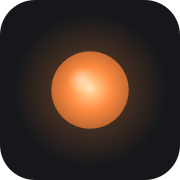
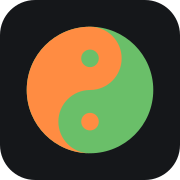
fix: yin-yang correct (paths canoniques) + icône Home Screen yin-yang
L'icône PWA passe de la braise ambre unique au yin-yang ambre+vert, signe
que l'app gère les deux modes (cigarette / pastille) dès l'écran d'accueil.

Les paths SVG précédents (2 paths complémentaires avec sweep-flags
contre-intuitifs) laissaient un trou dans le bas du cercle parce que je
gérais mal les flags. Corrigé en passant à l'approche canonique Wikipedia :
un cercle plein (couleur "bulb du bas") + un path par-dessus (couleur
"bulb du haut") qui forme correctement la courbe en S. Robuste et lisible.

Appliqué à 3 endroits :
- icon.svg (+ régénération icon-192.png, icon-512.png, apple-touch-icon.png
  via rsvg-convert)
- index.html splash (ember-logo-yinyang)
- index.html écran auth

Manifest mis à jour : "tracker nicotine" au lieu de "tracker de cigarettes"
+ description qui mentionne les deux modes.

Note iOS : Safari cache aggressivement les icônes Home Screen. Pour voir
la nouvelle, il faut retirer l'ancienne icône puis ré-ajouter via "Add to
Home Screen".

diff --git a/index.html b/index.html
@@ -52,16 +52,20 @@
           <circle cx="232" cy="228" r="40" fill="url(#splash-hilight)"/>
         </g>
 
-        <!-- État initial : yin-yang classique (ambre + vert tilleul) -->
+        <!-- État initial : yin-yang classique (ambre bulb haut, vert bulb bas).
+             Approche cercle plein + path par-dessus (canonique Wikipedia), beaucoup
+             plus robuste que 2 paths séparés où les sweep-flags sont contre-intuitifs.
+             Centre (256, 256), grand R=220, petits r=110. -->
         <g class="ember-logo-yinyang">
-          <path class="yy-yin"
-                d="M 256,36 A 220,220 0 0,0 256,476 A 110,110 0 0,1 256,256 A 110,110 0 0,0 256,36 Z"
+          <circle class="yy-base" cx="256" cy="256" r="220" fill="var(--pastille-color)"/>
+          <path class="yy-overlay"
+                d="M 256,36
+                   A 110,110 0 0,1 256,256
+                   A 110,110 0 0,0 256,476
+                   A 220,220 0 0,1 256,36 Z"
                 fill="var(--cigarette-color)"/>
-          <path class="yy-yang"
-                d="M 256,36 A 220,220 0 0,1 256,476 A 110,110 0 0,0 256,256 A 110,110 0 0,1 256,36 Z"
-                fill="var(--pastille-color)"/>
-          <circle class="yy-eye-top" cx="256" cy="146" r="22" fill="var(--pastille-color)"/>
-          <circle class="yy-eye-bottom" cx="256" cy="366" r="22" fill="var(--cigarette-color)"/>
+          <circle class="yy-eye-top" cx="256" cy="146" r="28" fill="var(--pastille-color)"/>
+          <circle class="yy-eye-bottom" cx="256" cy="366" r="28" fill="var(--cigarette-color)"/>
         </g>
       </svg>
       <p class="loading-text">Ember</p>
@@ -73,12 +77,14 @@
   <section id="screen-auth" class="screen">
     <div class="auth-wrap">
       <svg class="ember-logo" viewBox="0 0 512 512" aria-hidden="true">
-        <path d="M 256,36 A 220,220 0 0,0 256,476 A 110,110 0 0,1 256,256 A 110,110 0 0,0 256,36 Z"
+        <circle cx="256" cy="256" r="220" fill="var(--pastille-color)"/>
+        <path d="M 256,36
+                 A 110,110 0 0,1 256,256
+                 A 110,110 0 0,0 256,476
+                 A 220,220 0 0,1 256,36 Z"
               fill="var(--cigarette-color)"/>
-        <path d="M 256,36 A 220,220 0 0,1 256,476 A 110,110 0 0,0 256,256 A 110,110 0 0,1 256,36 Z"
-              fill="var(--pastille-color)"/>
-        <circle cx="256" cy="146" r="22" fill="var(--pastille-color)"/>
-        <circle cx="256" cy="366" r="22" fill="var(--cigarette-color)"/>
+        <circle cx="256" cy="146" r="28" fill="var(--pastille-color)"/>
+        <circle cx="256" cy="366" r="28" fill="var(--cigarette-color)"/>
       </svg>
       <h1>Ember</h1>
       <p class="tagline">Reprendre la main, une clope à la fois.</p>
@@ -388,7 +394,7 @@
   <script src="https://cdn.jsdelivr.net/npm/chart.js@4.4.1/dist/chart.umd.min.js"></script>
 
   <!-- Logique appli (modules ES6 — voir app.js + state/utils/supabase/db/transitions/screens) -->
-  <script type="module" src="app.js?v=18"></script>
+  <script type="module" src="app.js?v=19"></script>
 
   <!-- Service worker + auto-reload sur nouvelle version -->
   <script>